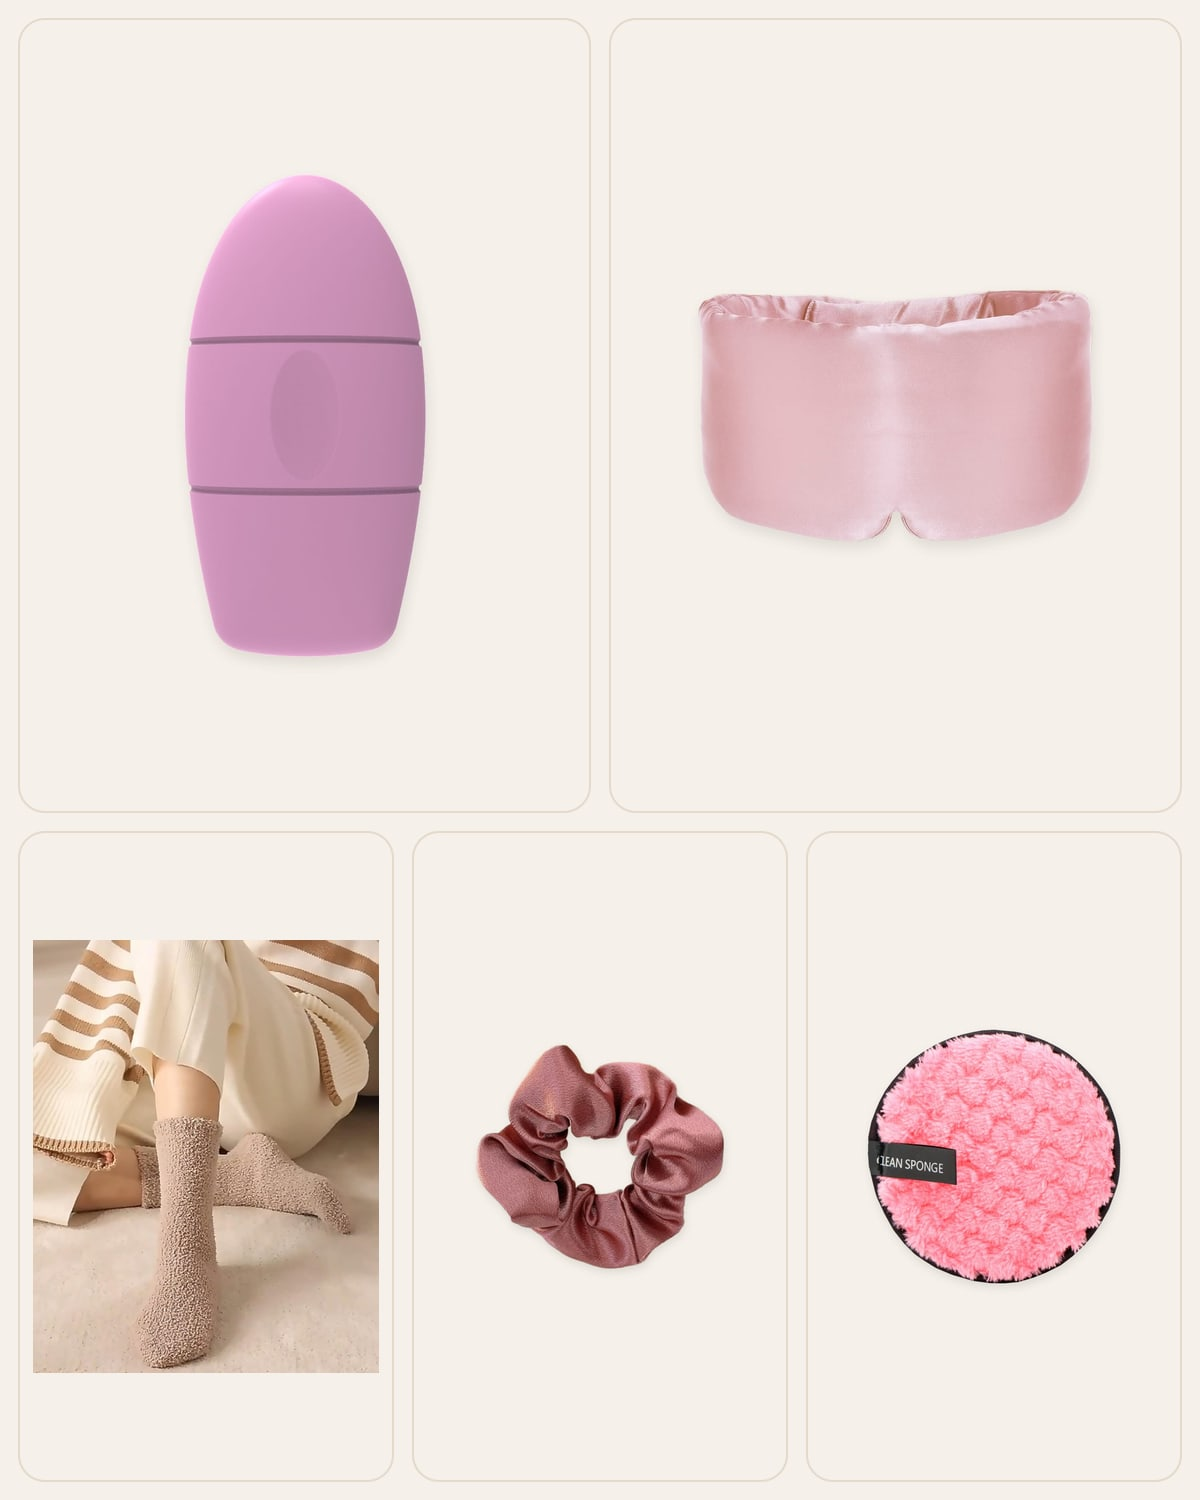
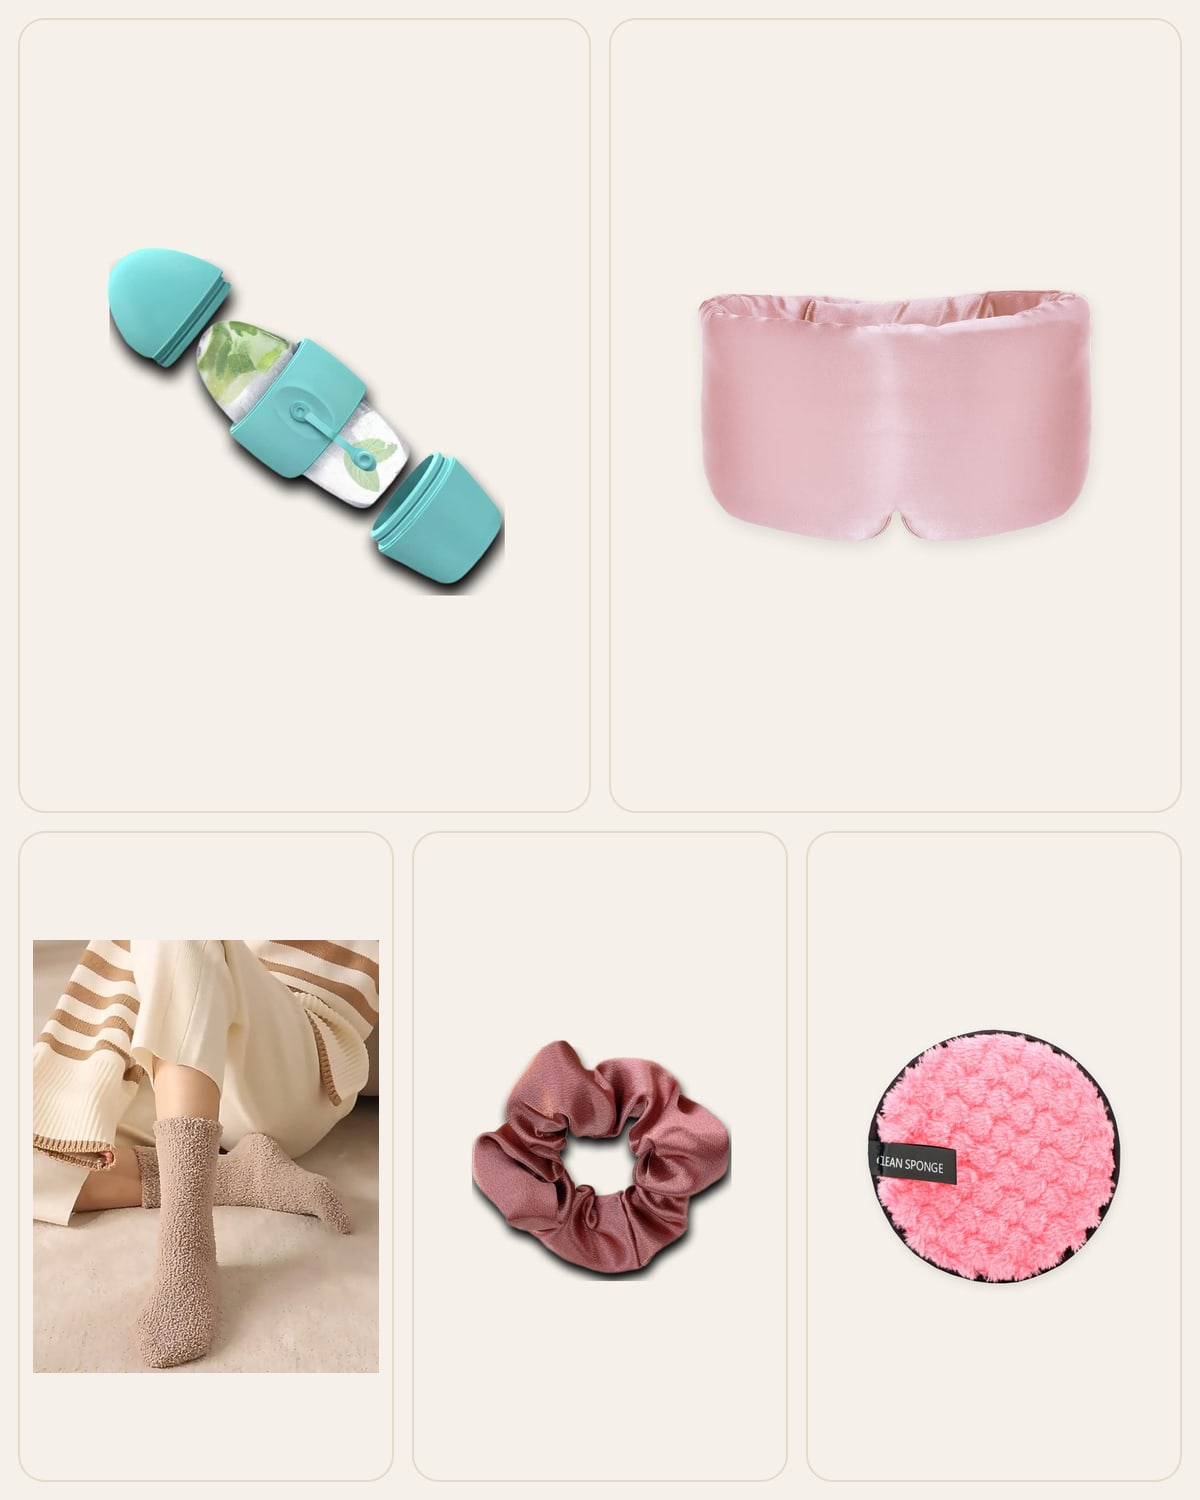
Regenerate the set mosaics with the re-cut component photos
Twelve sets contain a scrunchie, the ice roller, the travel organizer or the
pouch, so their mosaics carried the same halo. Rebuilt from the live photos;
SET_HERO_VERSION 4 busts the cache.

Changed region(s): [[0.0925, 0.092, 0.4317, 0.46], [0.37, 0.6747, 0.6167, 0.8587]]

diff --git a/prisma/seed.ts b/prisma/seed.ts
@@ -2109,7 +2109,7 @@ function setRecipe(slug: string): string {
 const LEGACY_RECIPE_PREFIX = "SET: order each component on CJ";
 
 const SET_HERO_BASE = "https://cmacbeauty.ca/sets";
-const SET_HERO_VERSION = 3;
+const SET_HERO_VERSION = 4;
 const isDerivedCloudinary = (u: string) => u.startsWith("https://res.cloudinary.com/") && u.includes("/cmac/products/");
 /** True when a set's images were all generated by this seed (CJ photos, component Cloudinary photos, set mosaics). */
 function onlyDerivedSetPhotos(images: unknown): boolean {
